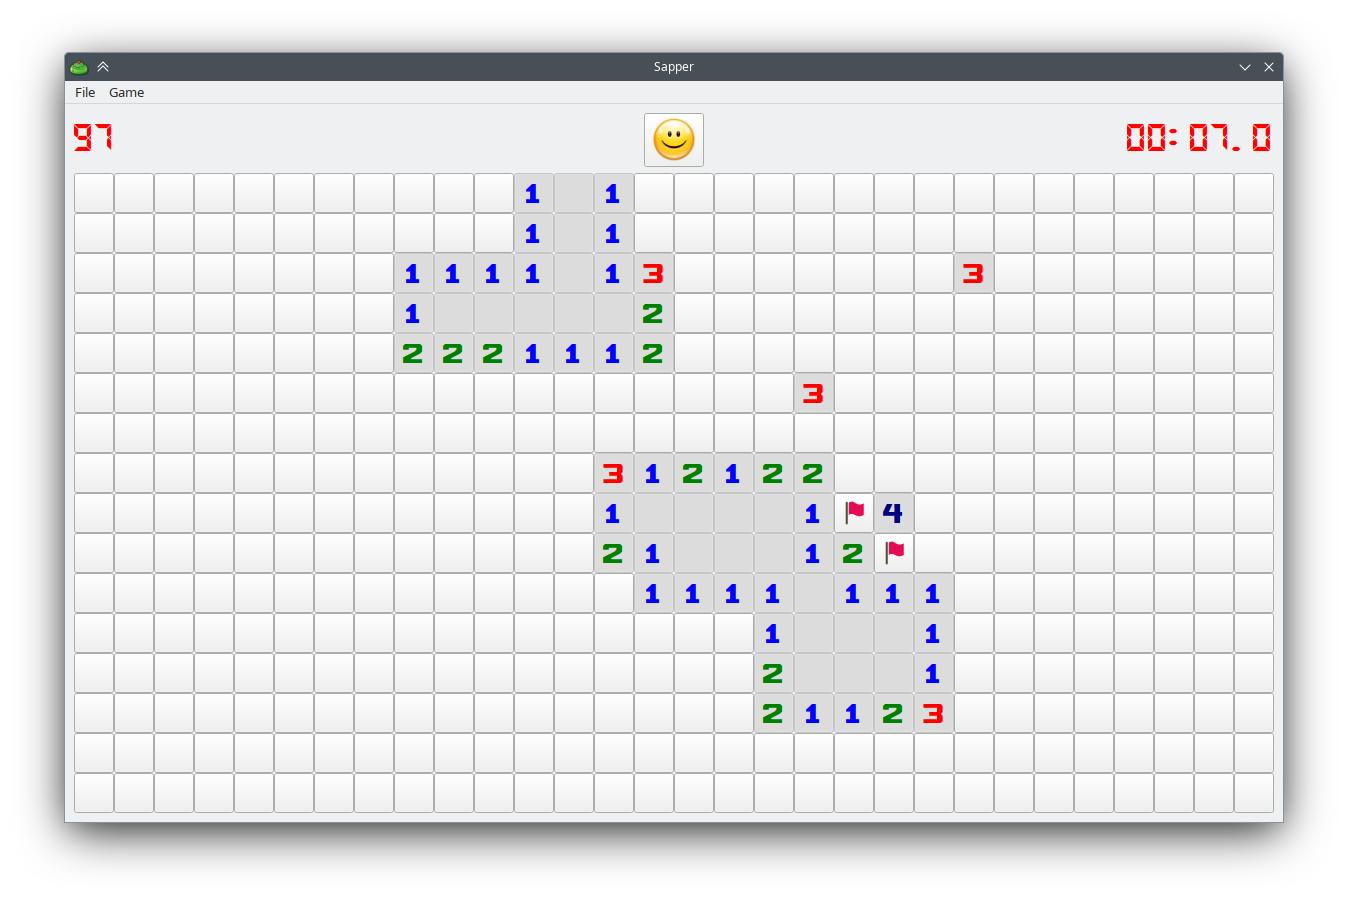
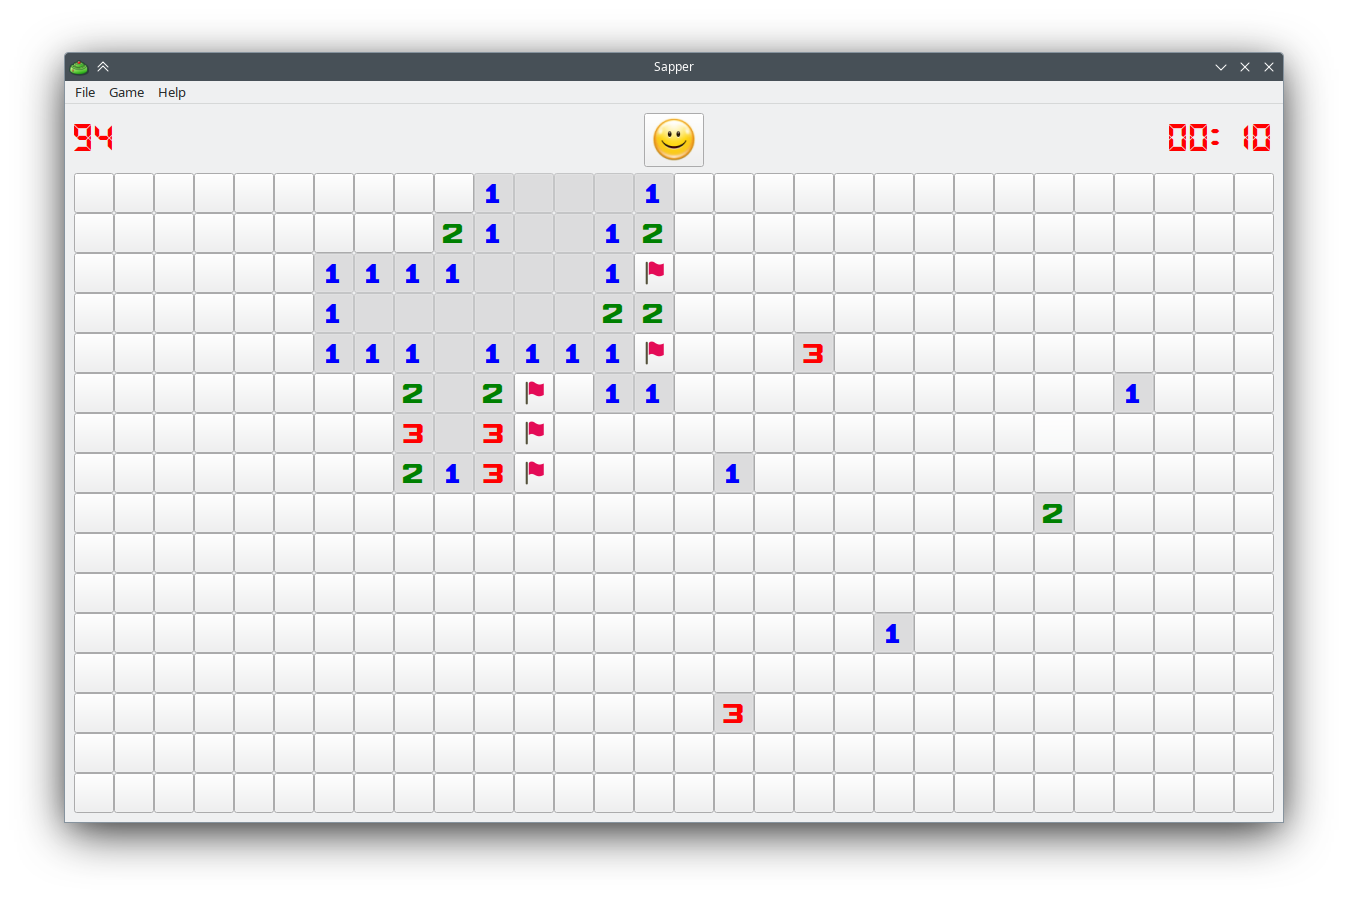
Sapper 24.12.2.1
* About dialog
* Timer display changed to mm:ss

diff --git a/apps/sapper/src/sapper_ru_RU.ts b/apps/sapper/src/sapper_ru_RU.ts
@@ -72,24 +72,39 @@
         <translation>Игра</translation>
     </message>
     <message>
-        <location filename="mainwindow.ui" line="125"/>
+        <location filename="mainwindow.ui" line="122"/>
+        <source>Help</source>
+        <translation>Справка</translation>
+    </message>
+    <message>
+        <location filename="mainwindow.ui" line="132"/>
         <source>Exit</source>
         <translation>Выход</translation>
     </message>
     <message>
-        <location filename="mainwindow.cpp" line="40"/>
+        <location filename="mainwindow.ui" line="137"/>
+        <source>About Sapper...</source>
+        <translation>О Сапёре...</translation>
+    </message>
+    <message>
+        <location filename="mainwindow.cpp" line="49"/>
         <source>Results</source>
         <translation>Результаты</translation>
     </message>
     <message>
-        <location filename="mainwindow.cpp" line="41"/>
+        <location filename="mainwindow.cpp" line="50"/>
         <source>Custom</source>
         <translation>Пользовательская</translation>
     </message>
     <message>
-        <location filename="mainwindow.cpp" line="41"/>
+        <location filename="mainwindow.cpp" line="50"/>
         <source>New...</source>
         <translation>Новая...</translation>
+    </message>
+    <message>
+        <location filename="mainwindow.cpp" line="286"/>
+        <source>About Sapper</source>
+        <translation>О Сапёре</translation>
     </message>
 </context>
 <context>

diff --git a/apps/sapper/src/mainwindow.cpp b/apps/sapper/src/mainwindow.cpp
@@ -10,6 +10,7 @@
 #include "picture.h"
 #include "qcolor.h"
 #include "qgridlayout.h"
+#include "qmessagebox.h"
 #include "qnamespace.h"
 #include "scoreboarddialog.h"
 #include "settings.h"
@@ -18,6 +19,7 @@
 #include <iterator>
 #include <ranges>
 #include <stdexcept>
+#include "version.h"
 
 static constexpr int CELL_SIZE{40};
 static constexpr QSize IMAGE_SIZE{24, 24};
@@ -28,6 +30,13 @@ static const QString STYLE_RED{"color: red"};
 static const QString STYLE_BLACK{"color: black"};
 
 static const QIcon EMPTY_ICON;
+
+static const QString ABOUT_TEXT = R"(
+<h1>Sapper</h1>
+<h2>Sapper %1</h2>
+Built on %2<br>
+Copyright &copy; 2024 Petr Panteleyev
+)";
 
 static std::array<QColor, 9> NUMBER_COLORS{
     QColorConstants::White, // unused
@@ -68,9 +77,10 @@ MainWindow::MainWindow(QWidget *parent)
     }
 
     connect(ui->actionExit, &QAction::triggered, [this]() { close(); });
+    connect(ui->actionAbout, &QAction::triggered, this, &MainWindow::onHelpAbout);
     connect(&gameTimer_, &GameTimer::timeString, [this](const QString &text) { ui->lcdTimer->setText(text); });
     connect(&boardSizeDialog_, &QDialog::accepted, [this]() { newGame(boardSizeDialog_.boardSize()); });
-    connect(&newCustomGameAction_, &QAction::triggered, this, &MainWindow::onNewCustomGame);
+    connect(&newCustomGameAction_, &QAction::triggered, this, &MainWindow::onNewCustomGame);   
 
     setupGameMenu();
     newGame(Settings::getLastBoardSize());
@@ -267,4 +277,11 @@ void MainWindow::buildCustomGameMenu() {
             connect(action, &QAction::triggered, [this, customSize]() { newGame(customSize); });
         }
     }
+}
+
+void MainWindow::onHelpAbout() {
+    auto text = QString(ABOUT_TEXT)
+            .arg(QString::fromStdString(Version::projectVersion))
+            .arg(QString::fromStdString(Version::buildDate));
+    QMessageBox::about(this, tr("About Sapper"), text);
 }

diff --git a/apps/sapper/src/gametimer.cpp b/apps/sapper/src/gametimer.cpp
@@ -14,8 +14,8 @@ GameTimer::GameTimer() : timer_{this}, localTime_{0, 0} {
 void GameTimer::onTimer() {
     auto current = localTime_;
     localTime_ = localTime_.addMSecs(INTERVAL_MS);
-    if (localTime_ != current) {
-        emit timeString(localTime_.toString("mm:ss.z"));
+    if (localTime_.second() != current.second()) {
+        emit timeString(localTime_.toString("mm:ss"));
     }
 }
 

diff --git a/include/version.h b/include/version.h
@@ -19,6 +19,12 @@ static const std::string projectVersion{xstr(PROJECT_VERSION)};
 static const std::string projectVersion{"NOT DEFINED"};
 #endif
 
+#ifdef BUILD_TIMESTAMP
+static const std::string buildDate{xstr(BUILD_TIMESTAMP)};
+#else
+static const std::string buildDate{xstr("NOT DEFINED")};
+#endif
+
 } // namespace Version
 
 #endif

diff --git a/apps/sapper/src/mainwindow.h b/apps/sapper/src/mainwindow.h
@@ -44,6 +44,7 @@ class MainWindow : public QMainWindow, GameCallbackHandler {
     int hitPointToButtonIndex(int hitPoint);
     void onNewCustomGame();
     void buildCustomGameMenu();
+    void onHelpAbout();
 
   private:
     Ui::MainWindow *ui;
